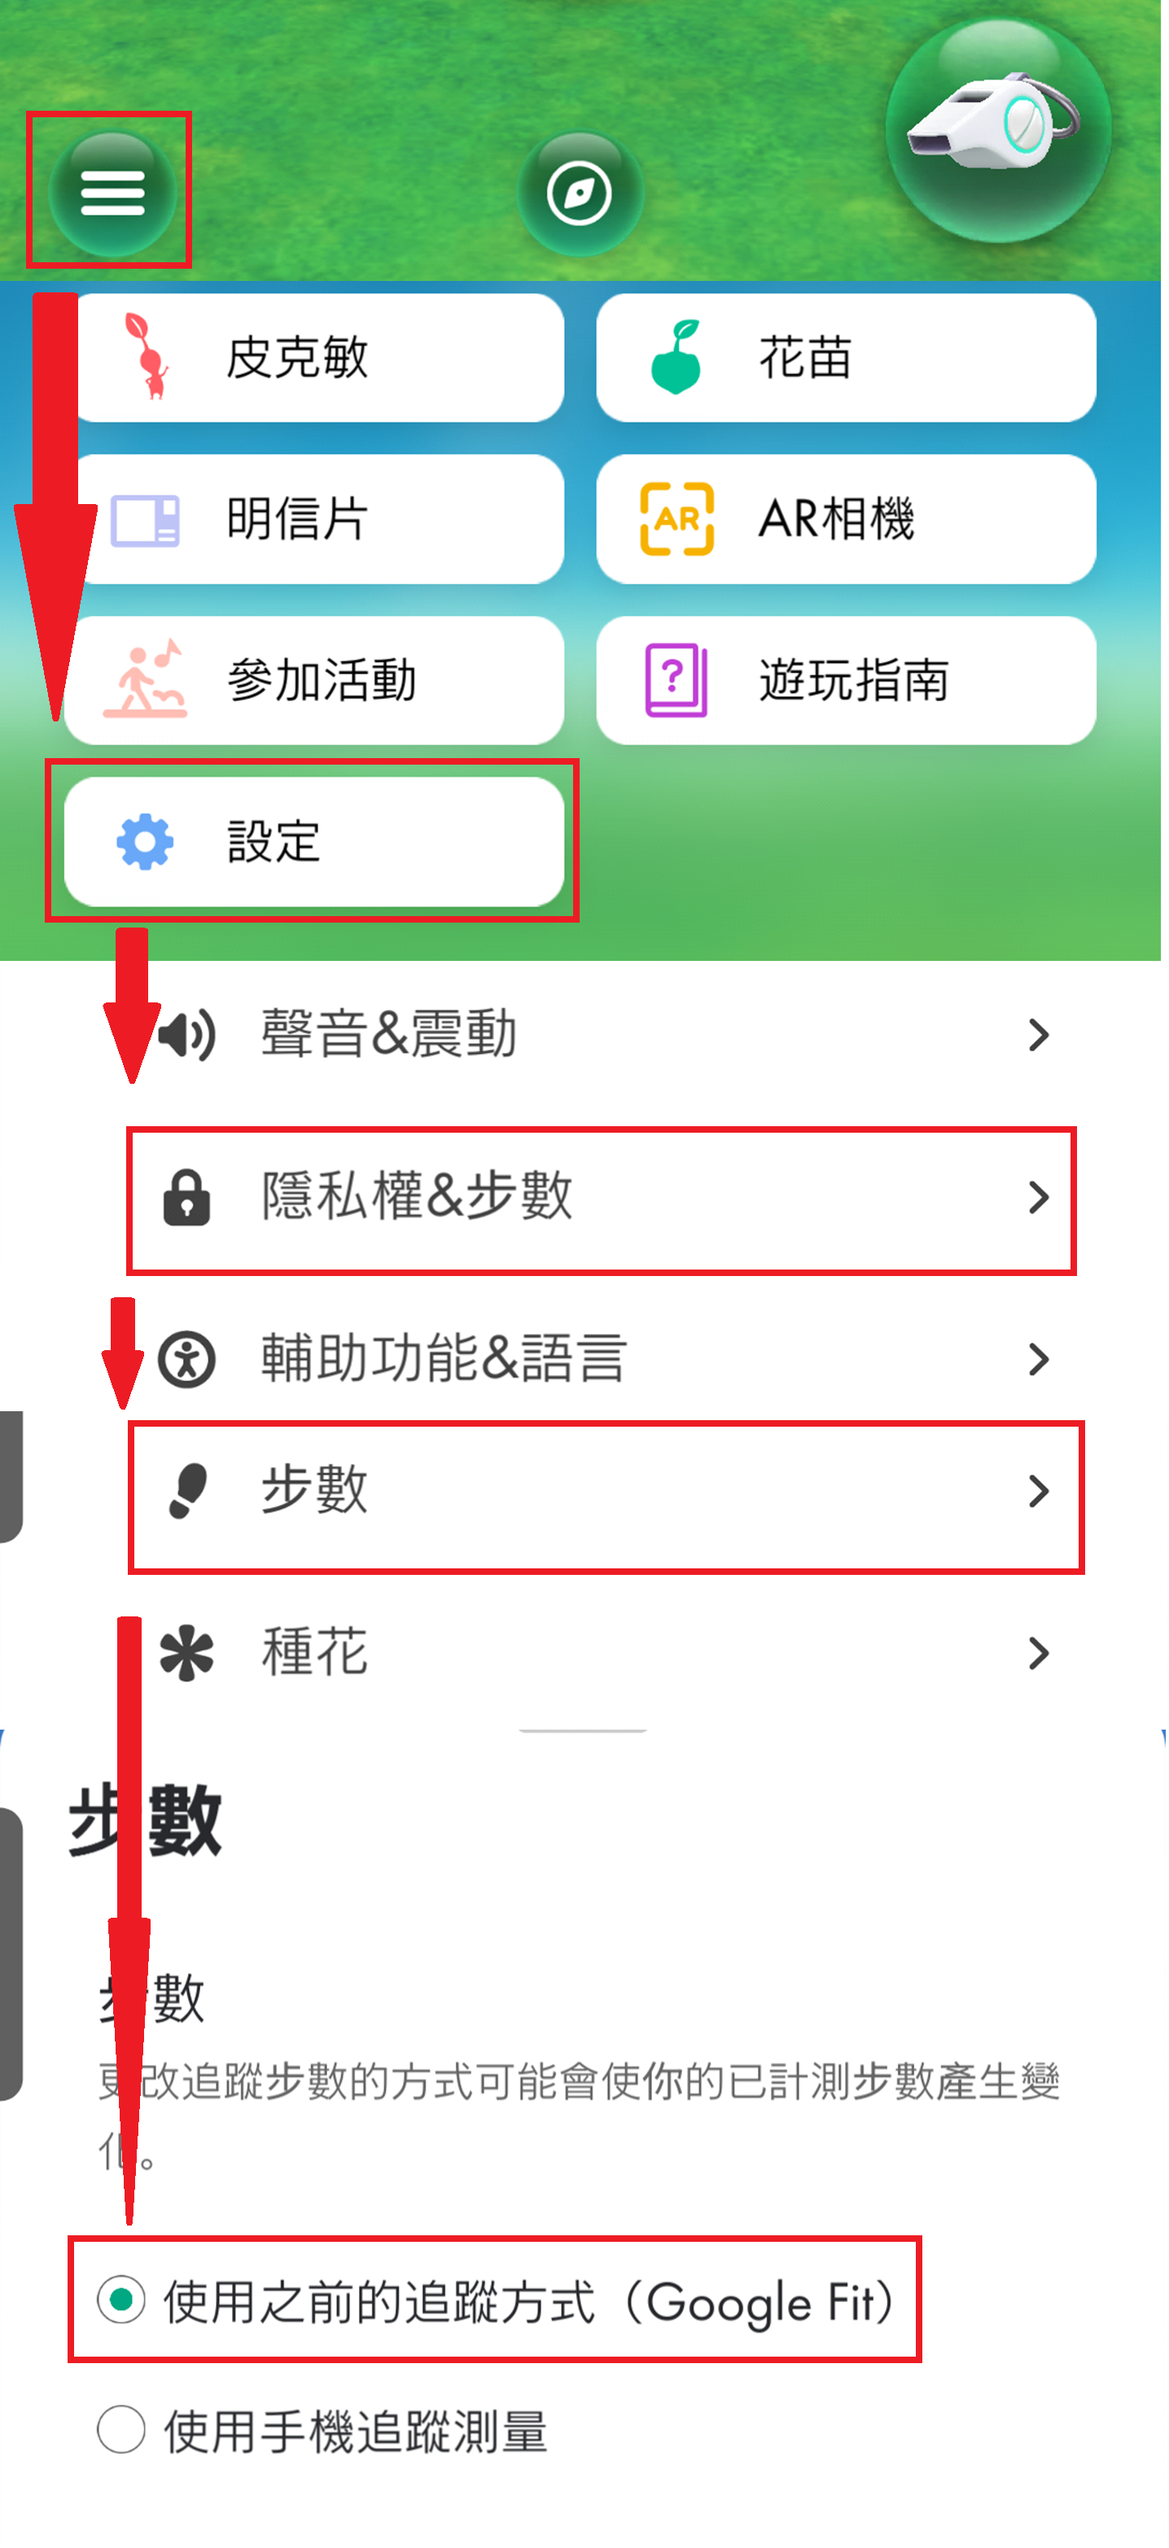
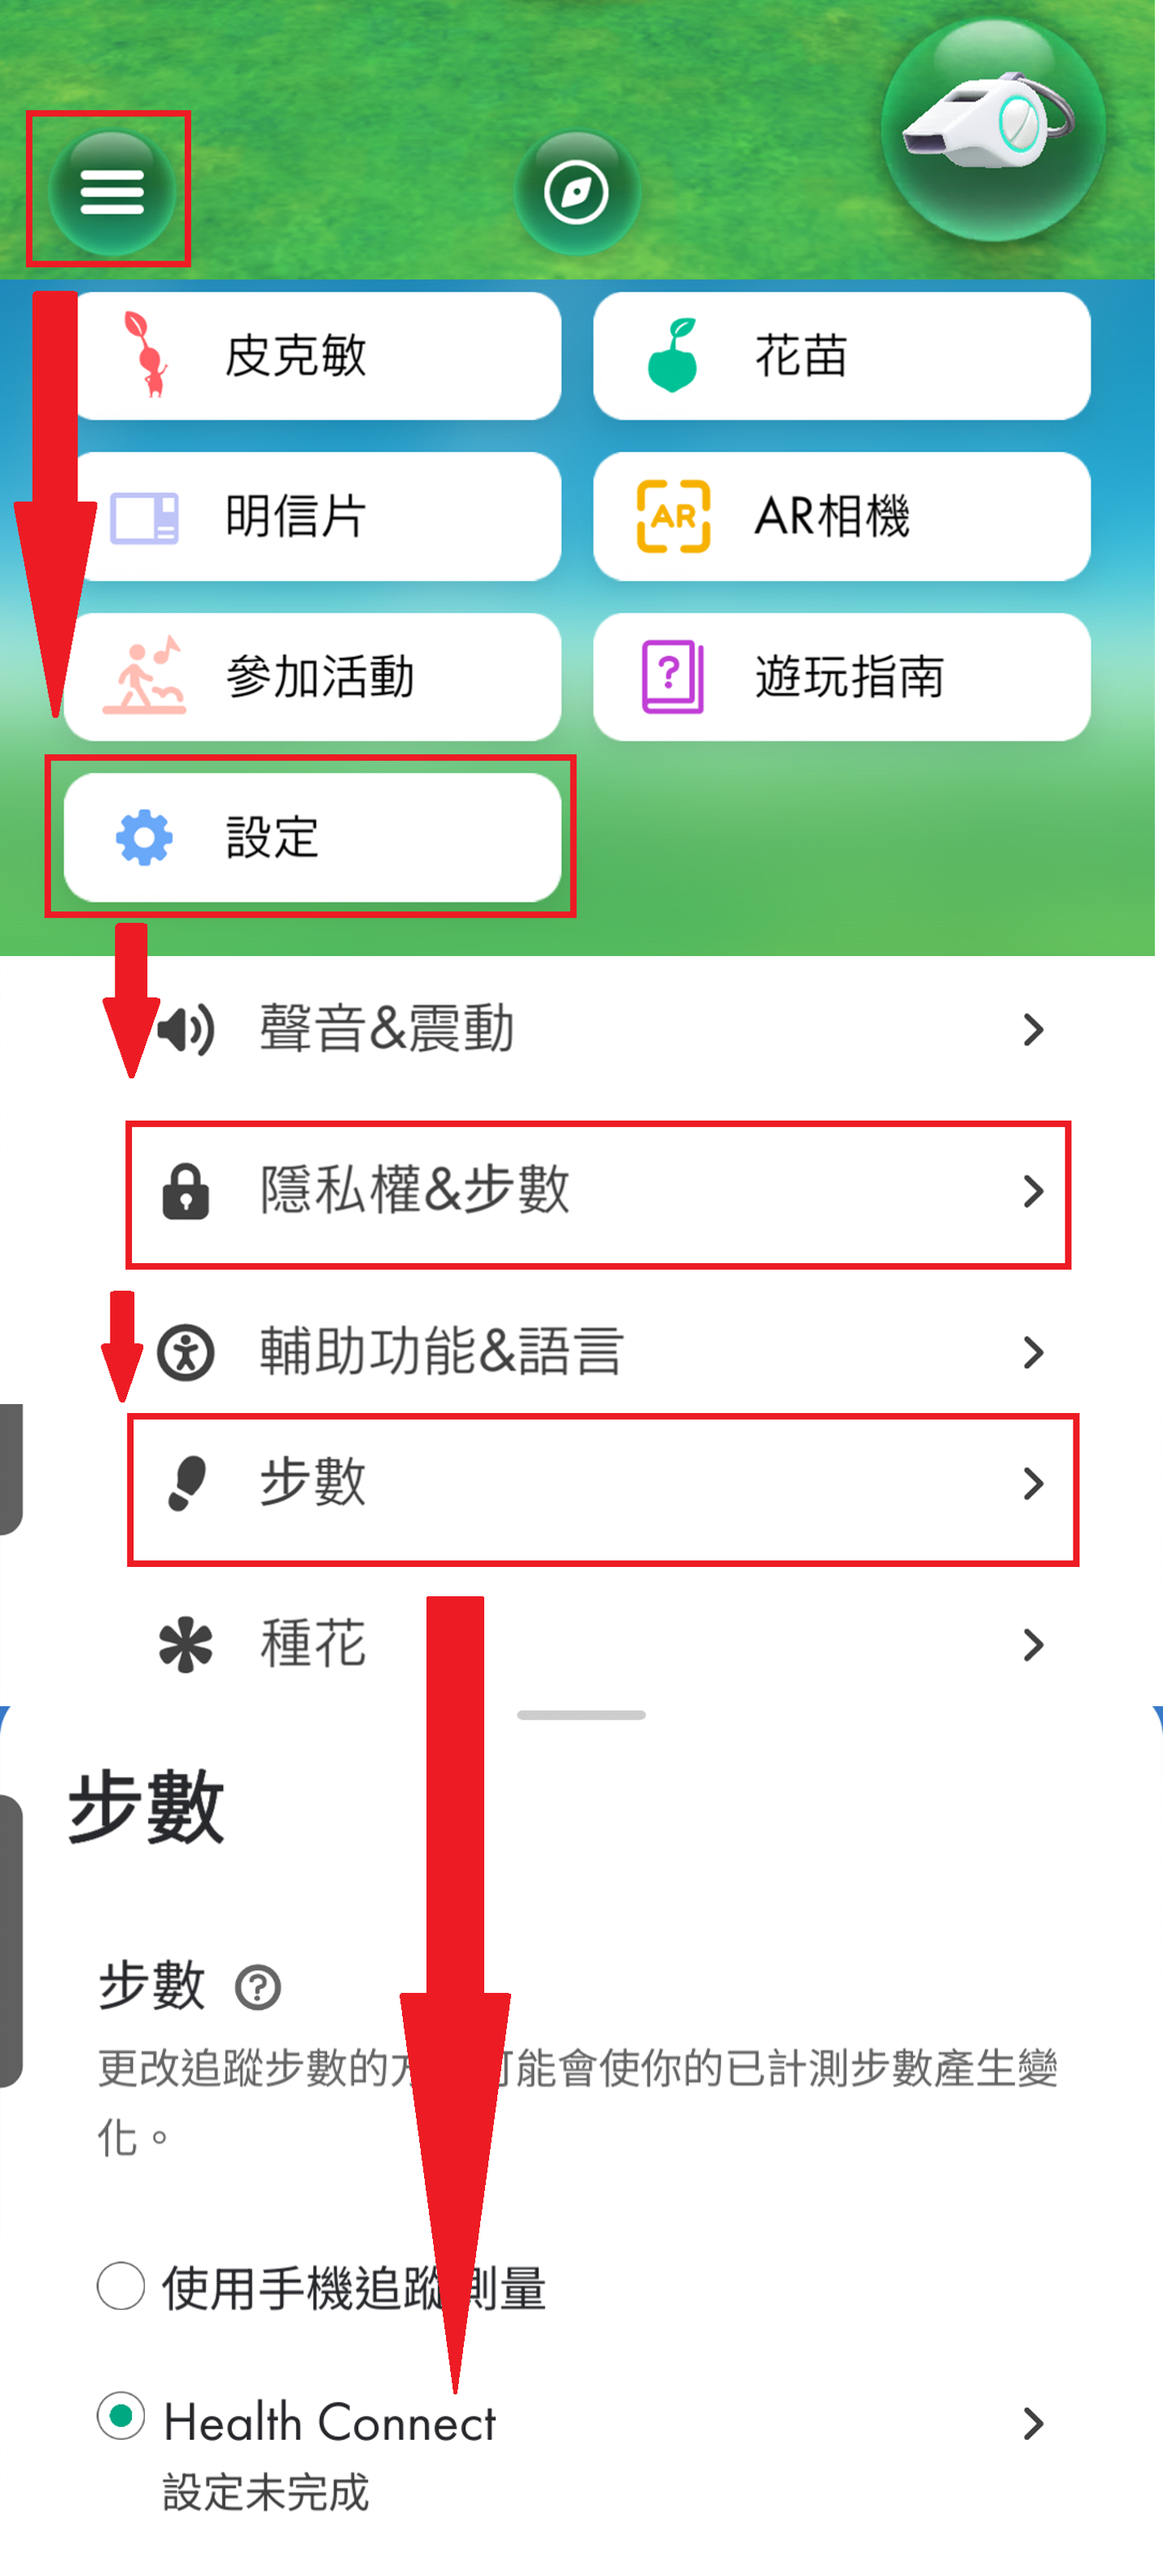
docs: add Health Connect in pikmin

diff --git a/docs/pikmin_bloom.md b/docs/pikmin_bloom.md
@@ -76,22 +76,46 @@
 
     <img width="400" src="https://raw.githubusercontent.com/lokey0905/POGO_Manager/master/docs/images/fit.png" />
 
-2. 啟動Fit應用程式，登入的Google帳號，並記住登入的帳號
-3. 到Fit應用程式個人資料頁面的設定按鈕，找到【讓Fit與「健康資料同步」平台保持同步】選項並啟用
+2. 如果系統是Android 13以下，需要另外下載Health Connect應用程式
+
+    <img width="400" src="https://raw.githubusercontent.com/lokey0905/POGO_Manager/master/docs/images/HealthConnect.png" />
+
+3. 啟動Fit應用程式，登入的Google帳號，並記住登入的帳號
+4. 到Fit應用程式個人資料頁面的設定按鈕，找到【讓Fit與「健康資料同步」平台保持同步】選項並啟用
 
     <img width="300" src="https://raw.githubusercontent.com/lokey0905/POGO_Manager/master/docs/images/fit_settings1.png" />
     <img width="300" src="https://raw.githubusercontent.com/lokey0905/POGO_Manager/master/docs/images/fit_settings2.png" />
     <img width="300" src="https://raw.githubusercontent.com/lokey0905/POGO_Manager/master/docs/images/fit_settings3.png" />
     <img width="300" src="https://raw.githubusercontent.com/lokey0905/POGO_Manager/master/docs/images/fit_settings4.png" />
 
-4. 啟動Defit應用程式，登入與Fit相同的Google帳號，並且授權Defit存取Fit的資料
-5. 勾選【同步模式】後，系統約5~15分鐘會自動同步步數資訊到Google Fit應用程式中
+5. 啟動Defit應用程式，登入與Fit相同的Google帳號，並且授權Defit存取Fit的資料
+6. 勾選【同步模式】後，系統約5~15分鐘會自動同步步數資訊到Google Fit應用程式中
 
     <img width="400" src="https://raw.githubusercontent.com/lokey0905/POGO_Manager/master/docs/images/defit.png" />
 
-6. 皮克敏設定中，將步數設定設定成使用【使用之前的追蹤方式(Google Fit)】
+7. 皮克敏設定中，將步數設定設定成使用【Health Connect】
 
     <img width="400" src="https://raw.githubusercontent.com/lokey0905/POGO_Manager/master/docs/images/pikmin_steps.png" />
+
+8. 點選Health Connect右邊的【>】進入設定指南，再點選【打開設定】
+
+    <img width="400" src="https://raw.githubusercontent.com/lokey0905/POGO_Manager/master/docs/images/HealthConnectSetting1.png" />
+
+9. 找到pikmin bloom點選右邊的【+】
+
+    <img width="400" src="https://raw.githubusercontent.com/lokey0905/POGO_Manager/master/docs/images/HealthConnectSetting2.png" />
+
+10. 點選【全部允許】授予權限，啟用後再點擊下方的【查看應用程式資料】
+
+    <img width="400" src="https://raw.githubusercontent.com/lokey0905/POGO_Manager/master/docs/images/HealthConnectSetting3.png" />
+
+11. 啟用【在背景存取資料】
+
+    <img width="400" src="https://raw.githubusercontent.com/lokey0905/POGO_Manager/master/docs/images/HealthConnectSetting4.png" />
+
+12. 返回Pikmin Bloom應用程式，確認顯示設定完成即可
+
+    <img width="400" src="https://raw.githubusercontent.com/lokey0905/POGO_Manager/master/docs/images/HealthConnectSetting5.png" />
 
 ### 模式說明
 
@@ -148,7 +172,7 @@
 2. 再開啟遊戲確認是否有讀取到資料
 3. 如果遊戲沒有立即更新，可等待一段時間後重新開啟遊戲
 4. 若長時間無法同步，可嘗試重新登入 Google Fit 與 Defit
-5. 確認 Google Fit、健康資料同步平台、Defit 使用的是同一個 Google 帳號
+5. 確認 DeFit 與 Google Fit 使用相同 Google 帳號，並確認 Google Fit 已啟用與 Health Connect 同步。
 6. 不建議將速度或步數設定過高，避免同步異常或資料不自然
 
 > 注意：Defit 只是將健身資料同步到 Google Fit，遊戲是否採計仍取決於遊戲本身的冒險同步機制。
